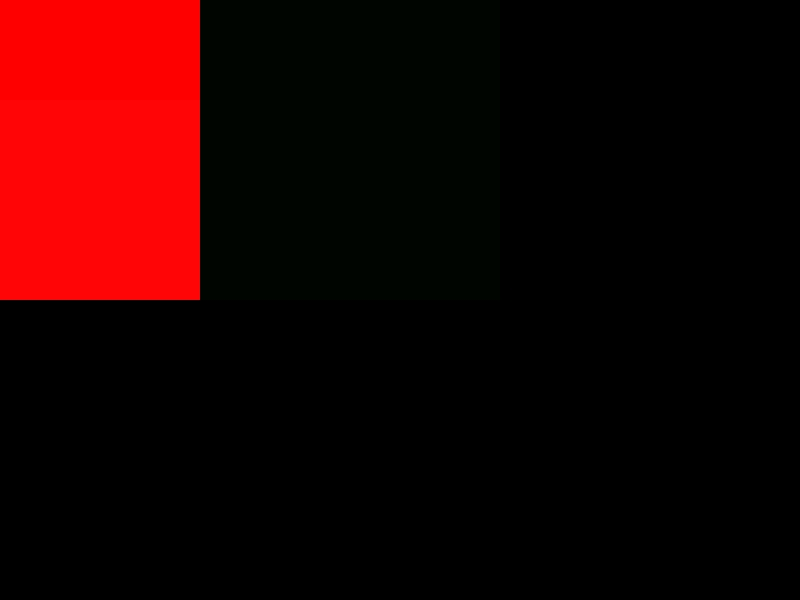
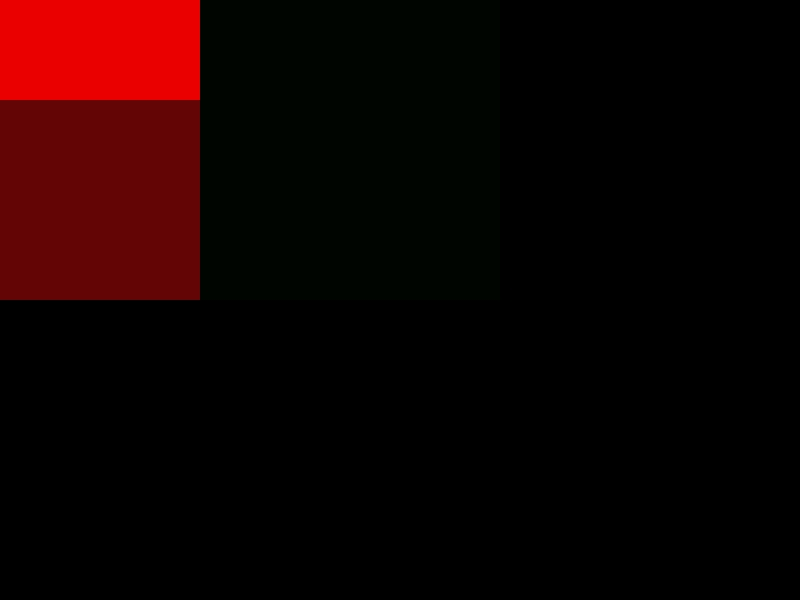
save

Changed region(s): [[0.0, 0.15, 0.25, 0.51]]

diff --git a/week07/toy-browser/server.js b/week07/toy-browser/server.js
@@ -11,16 +11,16 @@ const server = http.createServer((req, res) => {
         width: 500px;
         height: 300px;
         display: flex;
-        background-color: rgb(255, 255, 255);
+        background-color: rgb(100, 105, 255);
       }
       #container #myid {
         width: 200px;
         height: 100px;
-        background-color: rgb(255, 0, 0);
+        background-color: rgb(235, 0, 0);
       }
       #container .c1 {
         flex: 1;
-        background-color: rgb(0, 255, 0);
+        background-color: rgb(0, 245, 0);
       }
     </style>
   </head>

diff --git a/week07/toy-browser/client/htmlParser/render.js b/week07/toy-browser/client/htmlParser/render.js
@@ -7,7 +7,7 @@ function render(viewport, element) {
     if (element.style['background-color']) {
       let color = element.style['background-color'] || 'rgb(0,0,0)';
       color.match(/rgb\((\d+).*(\d+).*(\d+)\)/);
-      img.fill(Number(RegExp.$1), Number(RegExp.$2), Number(RegExp.$3), 1);
+      img.fill(Number(RegExp.$1), Number(RegExp.$2), Number(RegExp.$3), 0.5);
       viewport.draw(img, element.style.left || 0, element.style.top || 0);
     }
   }
